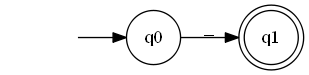
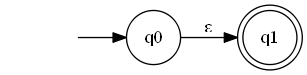
A small fix to visual representation of epsilon in the Graph

diff --git a/ALE2_library/models/Transition.cs b/ALE2_library/models/Transition.cs
@@ -59,7 +59,7 @@ namespace ALE2_library.models
         }
         public string ToStringGrapViz(string extra = "")
         {
-            return "\""+ (start is null ? "*null*" : start.Name) + "\" -> \"" + (end is null ? "*null*" : end.Name) + "\" [label=\"" + letter + extra + "\"]";
+            return "\""+ (start is null ? "*null*" : start.Name) + "\" -> \"" + (end is null ? "*null*" : end.Name) + "\" [label=\"" + (letter == "_"? "ε" : letter) + extra + "\"]";
         }
     }
 }
